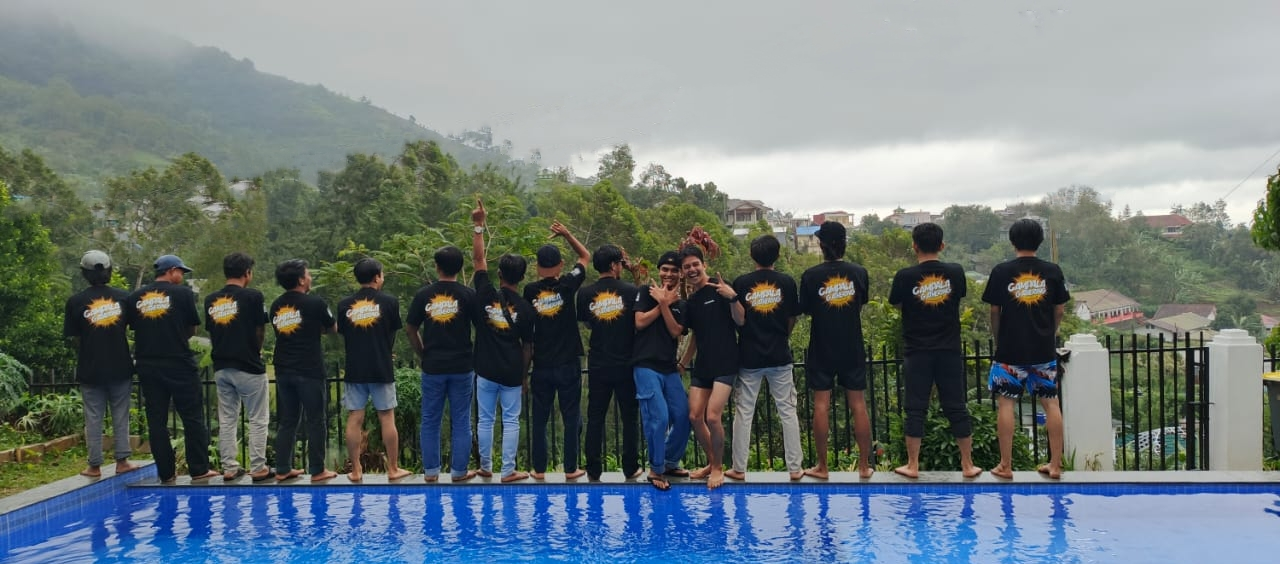
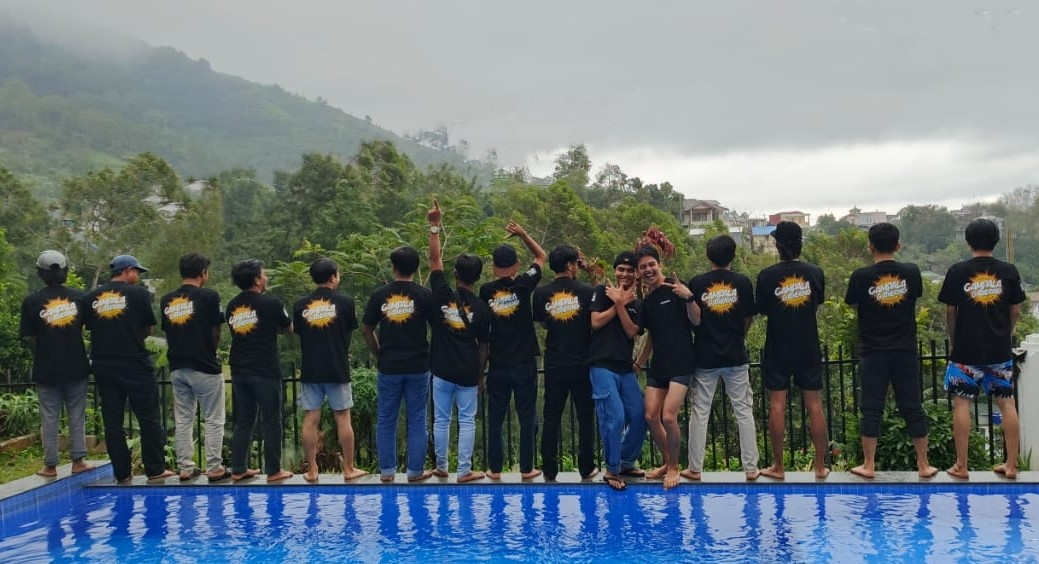
edit gambar, tambah list gambar

diff --git a/home.html b/home.html
@@ -466,7 +466,10 @@
                             <img src="asset/Mp.jpg">
                         </div>
                         <div class="hideLeft">
-                            <img src="asset/gathering.jpeg">
+                            <img src="asset/gathering1.jpeg">
+                        </div>
+                        <div class="prevLeftSecond">
+                            <img src="asset/gathering2.jpeg">
                         </div>
                     </div>
 
